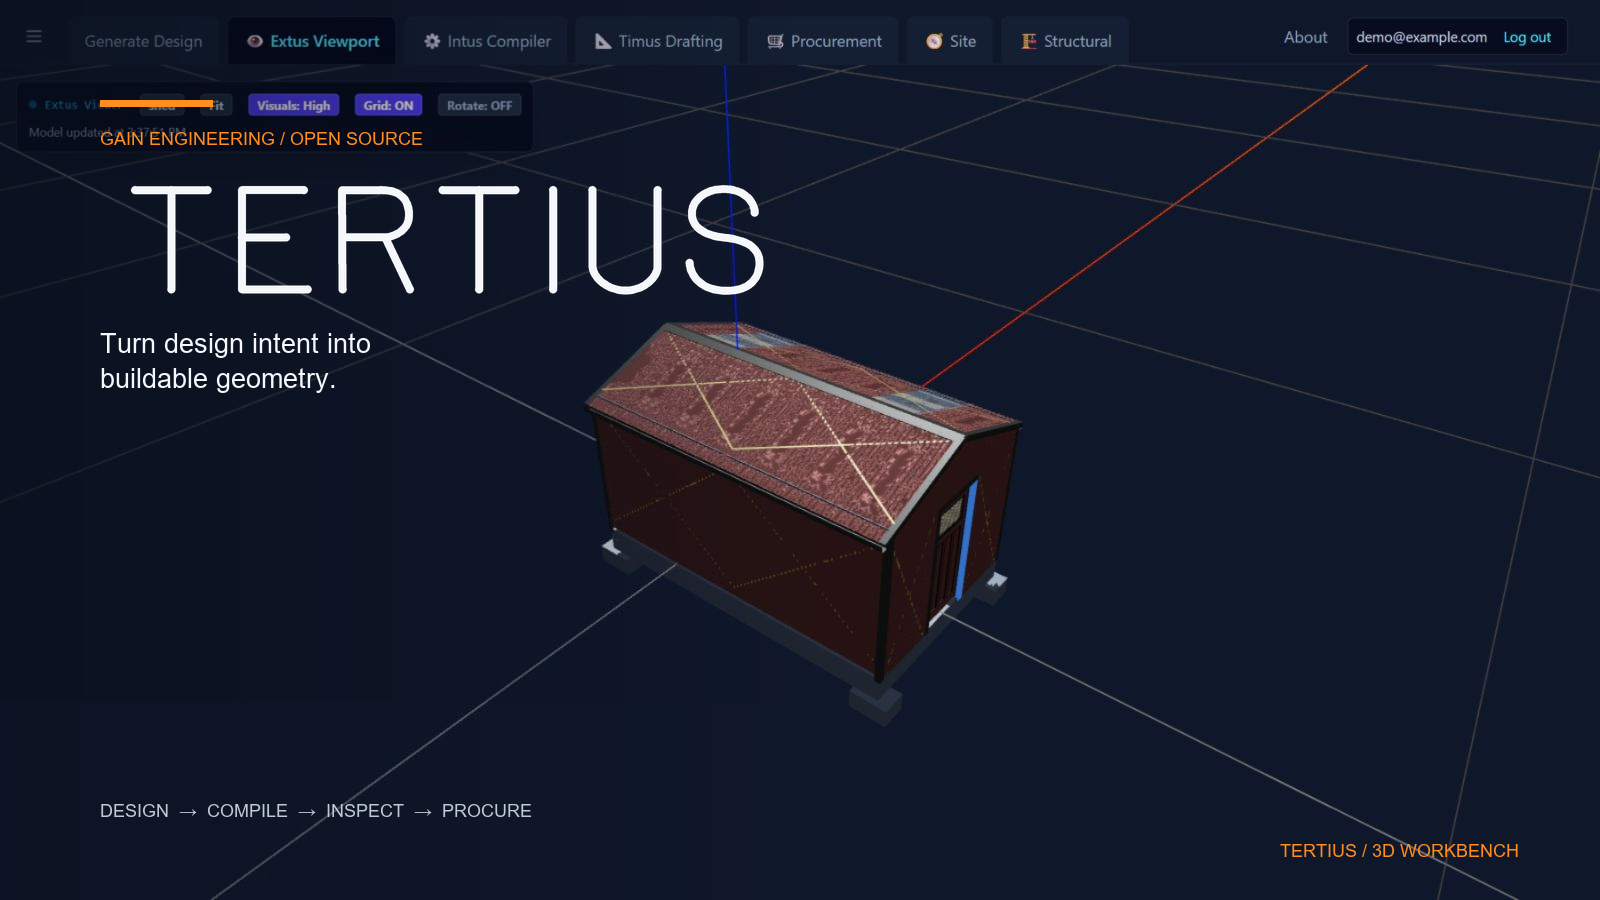
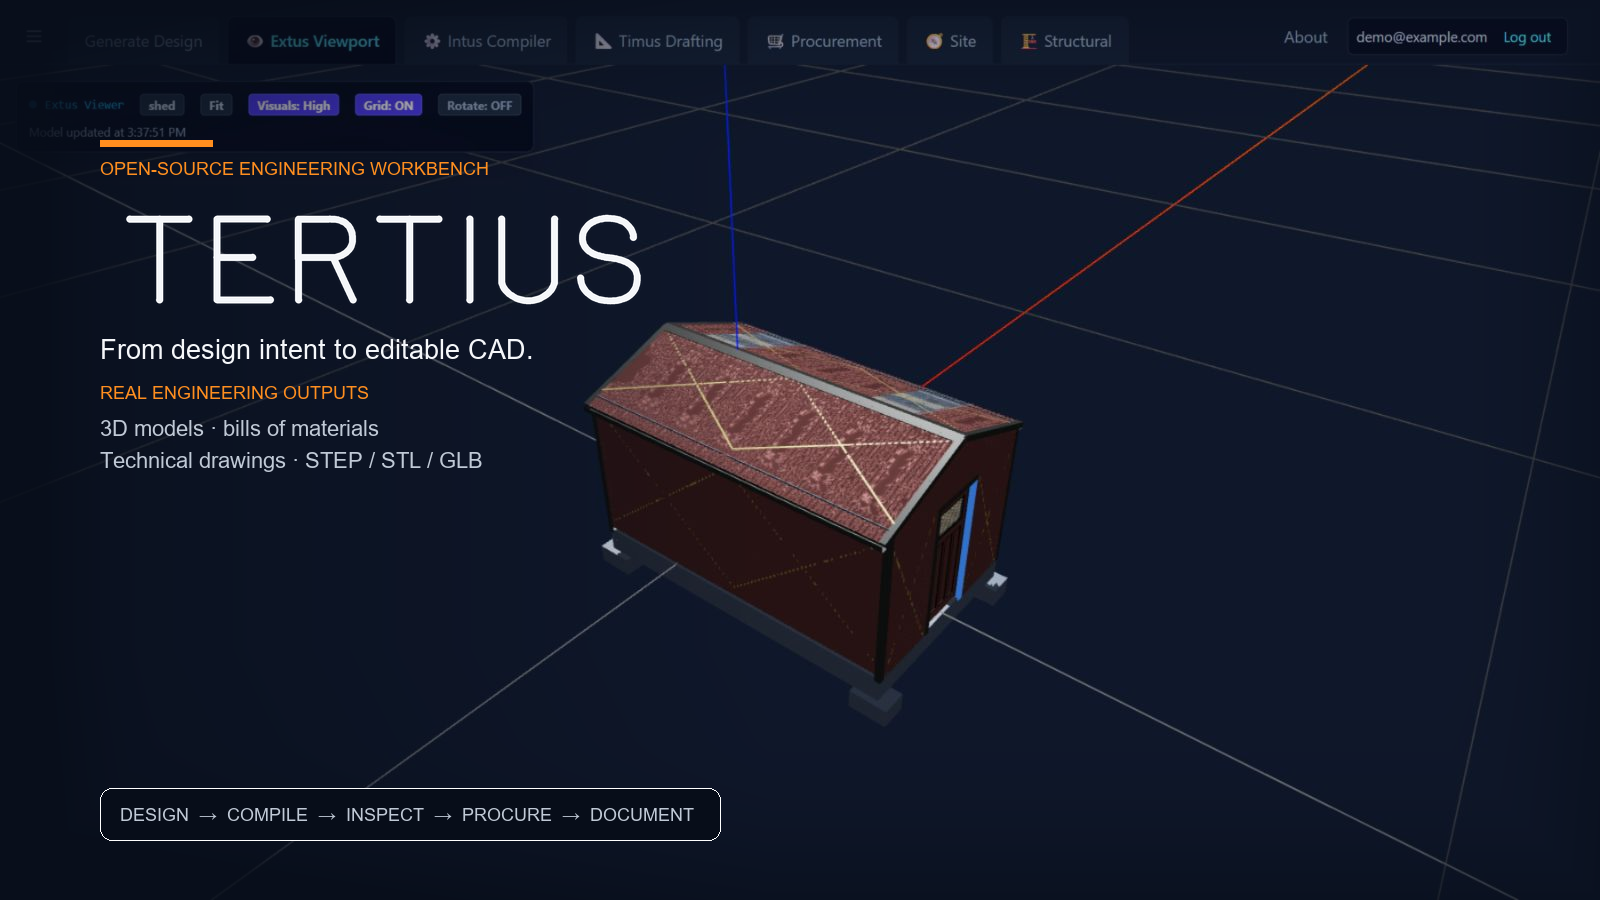
Clarify and rebalance the README hero

diff --git a/scripts/compose-readme-hero.py b/scripts/compose-readme-hero.py
@@ -151,36 +151,56 @@ def compose(source: Path, destination: Path, brand_font: Path | None) -> None:
     overlay = Image.new("RGBA", image.size, (0, 0, 0, 0))
     pixels = overlay.load()
     for x in range(width):
-        strength = int(218 * max(0.0, 1.0 - x / (width * 0.52)))
         for y in range(height):
-            vertical = 0.72 if y < height * 0.78 else 0.42
-            pixels[x, y] = (7, 13, 25, int(strength * vertical))
+            left_fade = max(0.0, 1.0 - x / (width * 0.48))
+            edge_distance = min(x, width - 1 - x, y, height - 1 - y)
+            edge_fade = max(0.0, 1.0 - edge_distance / (min(width, height) * 0.18))
+            bottom_fade = max(0.0, (y - height * 0.72) / (height * 0.28))
+            alpha = min(
+                228,
+                int(165 * left_fade + 125 * edge_fade**1.8 + 28 * bottom_fade),
+            )
+            pixels[x, y] = (7, 13, 25, alpha)
     image = Image.alpha_composite(image, overlay)
 
     draw = ImageDraw.Draw(image)
     brand = load_font(None, max(72, width // 15))
     sans = load_font(None, max(20, width // 58))
+    detail = load_font(None, max(17, width // 72))
     mono = load_font(None, max(15, width // 86))
 
     margin_x = width // 16
-    top = height // 7
+    top = height // 6
     orange = (255, 142, 31, 255)
     white = (245, 247, 250, 255)
     muted = (192, 201, 214, 255)
 
-    draw.rectangle((margin_x, top - 28, margin_x + 112, top - 22), fill=orange)
-    draw.text((margin_x, top), "GAIN ENGINEERING / OPEN SOURCE", font=mono, fill=orange)
+    draw.rectangle((margin_x, top - 10, margin_x + 112, top - 4), fill=orange)
+    draw.text((margin_x, top + 8), "OPEN-SOURCE ENGINEERING WORKBENCH", font=mono, fill=orange)
     if brand_font and brand_font.exists():
-        wordmark = gorton_wordmark(brand_font, "TERTIUS", 96, 8, white)
-        image.alpha_composite(wordmark, (margin_x, top + 38))
+        wordmark = gorton_wordmark(brand_font, "TERTIUS", 78, 7, white)
+        image.alpha_composite(wordmark, (margin_x, top + 48))
     else:
-        draw.text((margin_x, top + 40), "Tertius", font=brand, fill=white)
-    draw.text((margin_x, top + 200), "Turn design intent into", font=sans, fill=white)
-    draw.text((margin_x, top + 235), "buildable geometry.", font=sans, fill=white)
+        draw.text((margin_x, top + 48), "Tertius", font=brand, fill=white)
+    draw.text((margin_x, top + 184), "From design intent to editable CAD.", font=sans, fill=white)
+    draw.text((margin_x, top + 232), "REAL ENGINEERING OUTPUTS", font=mono, fill=orange)
+    draw.text((margin_x, top + 266), "3D models · bills of materials", font=detail, fill=muted)
+    draw.text((margin_x, top + 298), "Technical drawings · STEP / STL / GLB", font=detail, fill=muted)
 
-    footer_y = height - height // 9
-    draw.text((margin_x, footer_y), "DESIGN  →  COMPILE  →  INSPECT  →  PROCURE", font=mono, fill=muted)
-    draw.text((width - margin_x - 220, height - height // 15), "TERTIUS / 3D WORKBENCH", font=mono, fill=orange)
+    footer_y = height - 112
+    draw.rounded_rectangle(
+        (margin_x, footer_y, margin_x + 620, footer_y + 52),
+        radius=12,
+        fill=(7, 13, 25, 190),
+        outline=(255, 255, 255, 42),
+        width=1,
+    )
+    draw.text(
+        (margin_x + 20, footer_y + 16),
+        "DESIGN  →  COMPILE  →  INSPECT  →  PROCURE  →  DOCUMENT",
+        font=mono,
+        fill=muted,
+    )
 
     destination.parent.mkdir(parents=True, exist_ok=True)
     image.convert("RGB").save(destination, format="PNG", optimize=True)
